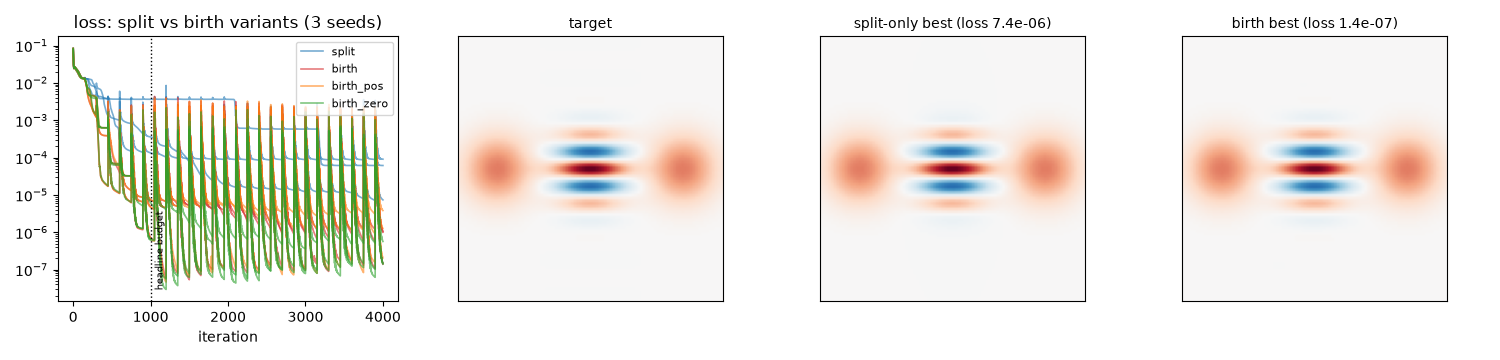
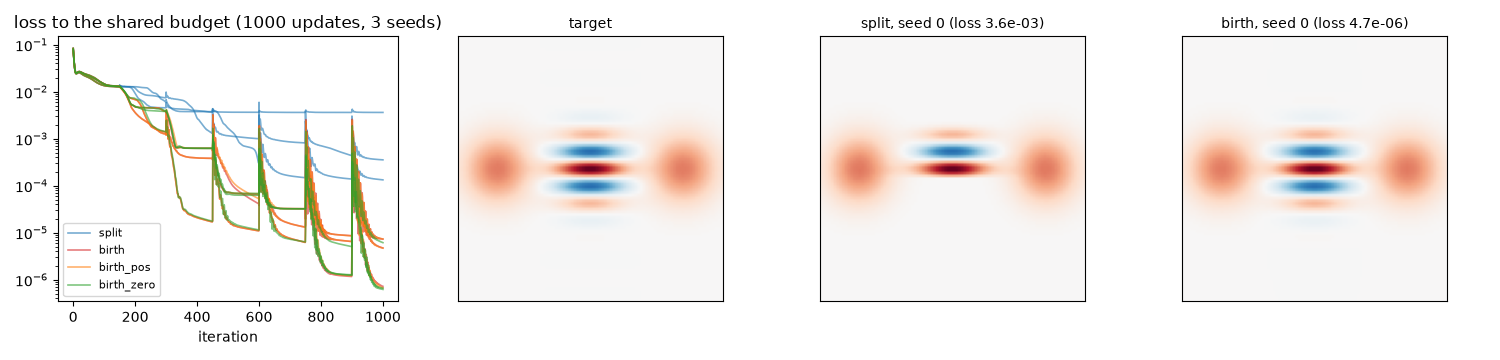
demo: 1000-update bench as the executed budget, pre-fixed GIF seed, causal wording narrowed (PR #49 round 3)
- run.py now RUNS the comparison bench at the shared 1000-update budget
  (all modes x 3 seeds, ~3 s per fit); the 4000-update sweep moved
  behind --full as a one-off auxiliary (its record stays in the
  research log). Headline ratios reproduce exactly: 767x/18x/493x.
- The GIF comes from a dedicated pre-fixed run (mode birth, GIF_SEED=0,
  4000 updates) -- no post-hoc best-seed selection; comparison.png
  panels show the shared-budget states of the same pre-fixed seed.
- Residual causal phrasing narrowed in README, run.py docstring, and
  birthfield2d.py docstring: 'the optimizer can drag a weight through
  zero; splitting itself preserves sign' -- no slow-route causality
  claim.

Claude-Session: https://claude.ai/code/session_01DS3h5oDp4wxB25u7Q9sRFx

diff --git a/demos/birthfield_image/run.py b/demos/birthfield_image/run.py
@@ -17,13 +17,16 @@ Declared expectations (corrected after a first exploratory run and the
 PR #49 review):
   * the naive "split can NEVER obtain negatives" reading is wrong for
     this objective -- gradient descent can drag a weight through zero;
-    splitting itself preserves the parent's sign (tested directly), so
-    split-only runs must grow negatives by that slow route.
-  * HEADLINE (fixed shared budget, per the re-review): at 1000 updates
-    (all modes at K = 10), the composite birth growth rule reaches >= 10x
-    lower loss than the split baseline on every seed (paired, same seed).
-    The 4000-iter results are kept as a one-off auxiliary record; the GIF
-    is a fixed-seed completion illustration, not comparison evidence.
+    what holds (and is tested directly) is that splitting itself
+    preserves the parent's sign.
+  * HEADLINE (fixed shared budget, per the re-review): the comparison
+    BENCH runs every mode x seed to exactly 1000 updates (all modes at
+    K = 10); the composite birth growth rule must reach >= 10x lower loss
+    than the split baseline on every seed (paired, same seed). A 4000-
+    update sweep exists only behind --full (one-off auxiliary; the
+    committed record of it lives in the research log). The GIF comes from
+    a separate PRE-FIXED run (mode 'birth', seed GIF_SEED) to 4000
+    updates -- a completion illustration, never comparison evidence.
   * ATTRIBUTION ablation, PAIRED: variants differing only in the
     newborn's initial weight -- signed / forced positive / zero --
     isolate ONLY the sign-injection component (placement, initial scale,
@@ -56,7 +59,9 @@ ALPHA = 2.0
 EXTENT = 4.0
 GRID = 96
 SEEDS = (0, 1, 2)
-ITERS = 4000
+ITERS_BENCH = 1000   # the shared comparison budget (all modes at K=10)
+ITERS_FULL = 4000    # --full auxiliary sweep / the fixed GIF run
+GIF_SEED = 0         # pre-fixed BEFORE running; never selected post hoc
 GROW_EVERY = 150
 K0, K_MAX = 4, 40
 
@@ -106,7 +111,7 @@ def make_gif(target, hist, path):
         for ev_it, kind, _, _ in hist["events"]:
             if ev_it <= it and kind == "birth":
                 axes[4].axvline(ev_it, color="tab:red", alpha=0.25, lw=0.8)
-        axes[4].set_xlim(0, ITERS)
+        axes[4].set_xlim(0, len(losses))
         axes[4].set_title("loss (red lines: births)", fontsize=10)
         fig.tight_layout()
         fig.canvas.draw()
@@ -123,19 +128,22 @@ def main():
     print(f"target: alpha={ALPHA} even cat, {GRID}x{GRID}, "
           f"negative fraction {np.mean(target < -0.02):.2f}")
 
+    full = "--full" in sys.argv
+    iters = ITERS_FULL if full else ITERS_BENCH
+    print(f"bench budget: {iters} updates per run"
+          + (" (--full auxiliary sweep)" if full else ""))
     results = {}
     for mode in ("split", "birth", "birth_pos", "birth_zero"):
         for seed in SEEDS:
             t0 = time.perf_counter()
             hist = fit(target, EXTENT, mode, K0=K0, K_max=K_MAX,
-                       iters=ITERS, grow_every=GROW_EVERY, seed=seed,
-                       snapshot_every=80)
+                       iters=iters, grow_every=GROW_EVERY, seed=seed,
+                       snapshot_every=10 ** 9)
             wall = time.perf_counter() - t0
             wfin = hist["final"][0]["w"]
-            print(f"  {mode:10s} seed={seed}: loss@1000={hist['loss'][1000]:.3e}"
-                  f"  final={hist['loss'][-1]:.3e}  K={len(wfin)}  "
-                  f"negatives={int(np.sum(wfin < 0))}  wall={wall:.0f}s",
-                  flush=True)
+            print(f"  {mode:10s} seed={seed}: loss@end={hist['loss'][-1]:.3e}"
+                  f"  K={len(wfin)}  negatives={int(np.sum(wfin < 0))}  "
+                  f"wall={wall:.0f}s", flush=True)
             results[(mode, seed)] = hist
 
     # comparison figure
@@ -147,21 +155,16 @@ def main():
             axes[0].semilogy(results[(mode, seed)]["loss"], color=color,
                              alpha=0.6, lw=1.2,
                              label=mode if seed == SEEDS[0] else None)
-    axes[0].axvline(1000, color="k", ls=":", lw=1.0)
-    axes[0].text(1050, axes[0].get_ylim()[0] * 2, "headline budget",
-                 fontsize=7, rotation=90, va="bottom")
     axes[0].legend(fontsize=8)
-    axes[0].set_title("loss: split vs birth variants (3 seeds)")
+    axes[0].set_title(f"loss to the shared budget ({iters} updates, 3 seeds)")
     axes[0].set_xlabel("iteration")
-    best = {m: min(SEEDS, key=lambda sd: results[(m, sd)]["loss"][-1])
-            for m in ("split", "birth")}
     panels = [(target, "target"),
-              (results[("split", best["split"])]["final"][1],
-               f"split-only best (loss "
-               f"{results[('split', best['split'])]['loss'][-1]:.1e})"),
-              (results[("birth", best["birth"])]["final"][1],
-               f"birth best (loss "
-               f"{results[('birth', best['birth'])]['loss'][-1]:.1e})")]
+              (results[("split", GIF_SEED)]["final"][1],
+               f"split, seed {GIF_SEED} (loss "
+               f"{results[('split', GIF_SEED)]['loss'][-1]:.1e})"),
+              (results[("birth", GIF_SEED)]["final"][1],
+               f"birth, seed {GIF_SEED} (loss "
+               f"{results[('birth', GIF_SEED)]['loss'][-1]:.1e})")]
     for ax, (img, title) in zip(axes[1:], panels):
         ax.imshow(img, cmap="RdBu_r", vmin=-1, vmax=1, origin="lower")
         ax.set_title(title, fontsize=10)
@@ -169,16 +172,20 @@ def main():
     fig.tight_layout()
     fig.savefig(HERE / "comparison.png", dpi=100)
 
-    make_gif(target, results[("birth", best["birth"])],
-             HERE / "birthfield_demo.gif")
+    print(f"  GIF run: mode=birth seed={GIF_SEED} (pre-fixed), "
+          f"{ITERS_FULL} updates -- illustration only", flush=True)
+    gif_hist = fit(target, EXTENT, "birth", K0=K0, K_max=K_MAX,
+                   iters=ITERS_FULL, grow_every=GROW_EVERY, seed=GIF_SEED,
+                   snapshot_every=80)
+    make_gif(target, gif_hist, HERE / "birthfield_demo.gif")
     print(f"  assets: {HERE / 'birthfield_demo.gif'}, "
           f"{HERE / 'comparison.png'}")
 
     print("\n=== verdicts vs declared expectations (docstring) ===")
-    gaps_1k = [results[("split", sd)]["loss"][1000]
-               / results[("birth", sd)]["loss"][1000] for sd in SEEDS]
-    print("1. HEADLINE, fixed shared budget of 1000 updates (all modes at "
-          "K=10), per-seed PAIRED split/birth loss ratios: "
+    gaps_1k = [results[("split", sd)]["loss"][-1]
+               / results[("birth", sd)]["loss"][-1] for sd in SEEDS]
+    print(f"1. HEADLINE, fixed shared budget of {iters} updates, per-seed "
+          "PAIRED split/birth loss ratios: "
           f"{[f'{g:.0f}x' for g in gaps_1k]}")
     if min(gaps_1k) >= 10:
         print("   -> the composite birth growth rule beats this split "
@@ -186,25 +193,20 @@ def main():
     else:
         print("   -> NOT SUPPORTED at the declared 10x bar on at least one "
               "seed -- recorded; do not publish the narrative.")
-    gaps_fin = [results[("split", sd)]["loss"][-1]
-                / results[("birth", sd)]["loss"][-1] for sd in SEEDS]
-    print(f"   auxiliary (one-off, 4000 iters): final ratios "
-          f"{[f'{g:.0f}x' for g in gaps_fin]}")
-    print("   note: split runs DO end with negative weights (the optimizer "
-          "drags weights through zero); splitting itself never flips a "
-          "sign (tested directly).")
+    print("   note: split runs acquire negative weights over long runs "
+          "(the optimizer can drag a weight through zero); splitting "
+          "itself never flips a sign (tested directly).")
     print("2. attribution ablation, PAIRED per seed (only the newborn's "
           "initial weight differs; placement/scale/method shared with "
           "'birth'):")
-    for stage, idx in (("iter 1000", 1000), ("final (auxiliary)", -1)):
-        for variant in ("birth_pos", "birth_zero"):
-            ratios = [results[(variant, sd)]["loss"][idx]
-                      / results[("birth", sd)]["loss"][idx] for sd in SEEDS]
-            print(f"   {stage}: {variant}/birth per seed "
-                  f"{[f'{r:.3f}' for r in ratios]}  "
-                  f"paired median {np.median(ratios):.3f}x")
-    pos_1k = np.median([results[("birth_pos", sd)]["loss"][1000]
-                        / results[("birth", sd)]["loss"][1000]
+    for variant in ("birth_pos", "birth_zero"):
+        ratios = [results[(variant, sd)]["loss"][-1]
+                  / results[("birth", sd)]["loss"][-1] for sd in SEEDS]
+        print(f"   at {iters} updates: {variant}/birth per seed "
+              f"{[f'{r:.3f}' for r in ratios]}  "
+              f"paired median {np.median(ratios):.3f}x")
+    pos_1k = np.median([results[("birth_pos", sd)]["loss"][-1]
+                        / results[("birth", sd)]["loss"][-1]
                         for sd in SEEDS])
     if pos_1k >= 3.0:
         print("   -> sign injection carries a real share of the gain "

diff --git a/demos/birthfield_image/birthfield2d.py b/demos/birthfield_image/birthfield2d.py
@@ -2,12 +2,11 @@
 
 A self-contained demo module (issue #46 idea 4) exporting the repo's exp02
 lesson, in its precise form, to plain image fitting: splitting/cloning
-existing splats PRESERVES each parent's sign, so subtractive (negative)
-structure can only appear via the slow weight-through-zero route of the
-optimizer -- or be injected directly by a "birth", whose place (and sign,
-in the signed variant) are given in closed form by the birth field, the
-loss gradient with respect to the weight of a hypothetical new splat at
-position mu:
+existing splats PRESERVES each parent's sign (the optimizer itself can
+still change a sign by dragging a weight through zero). New splats can
+instead be injected by a "birth", whose place (and sign, in the signed
+variant) are given in closed form by the birth field, the loss gradient
+with respect to the weight of a hypothetical new splat at position mu:
 
     B(mu) = dL/dw|_{w=0, splat at mu} = (2/N) sum_p r(p) exp(-|p-mu|^2/(2 sigma_b^2))
 

diff --git a/demos/birthfield_image/README.md b/demos/birthfield_image/README.md
@@ -1,6 +1,6 @@
 # Birth-field image demo
 
-exp02 の教訓(「分裂は親の符号を保存する。負の構造は、最適化が重みをゼロ通過させる遅い経路か、birth による直接注入でしか現れない」)を、量子トモグラフィの文脈を知らない読者向けに **画像フィッティング**として可視化するデモ。issue #46 案④の第一号成果物。
+exp02 の教訓(「分裂は親の符号を保存する。最適化そのものは重みをゼロ通過させて符号を変えられる」)を、量子トモグラフィの文脈を知らない読者向けに **画像フィッティング**として可視化するデモ。issue #46 案④の第一号成果物。
 
 ## なにを見せるか
 